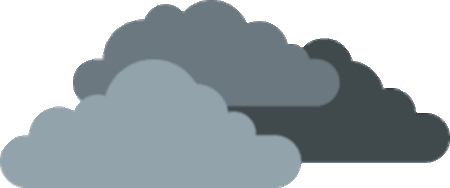
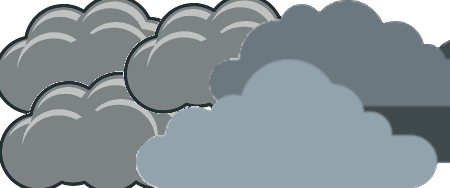
added animation to every phase,completed all the phases

diff --git a/src/App.js b/src/App.js
@@ -13,6 +13,8 @@ import Mountain from './components/Mountain';
 import Sun from './components/Sun';
 import Bird from './components/images/Bird.gif';
 import A1up from './components/A1up';
+import A2Down from './components/A2Down';
+import A2Left from './components/A2Left';
 import ReactRain from 'react-rain-animation';
 import "react-rain-animation/lib/style.css";
 import Flippy, { FrontSide, BackSide } from 'react-flippy';
@@ -28,36 +30,45 @@ class App extends Component {
     this.state = {
       sun : false ,
       cloud : false ,
+      cloud3 : false,
       rain : false,
       arrow : false,
+      arrow2 : false,
    }
 }
 Phase1() {
    this.setState({sun: true});
    this.setState({cloud : false});
+   this.setState({cloud3 : false});
    this.setState({rain: false});
    this.setState({arrow: true});
+   this.setState({arrow2 : false});
  
  }
 Phase2() {
    this.setState({sun: true});
    this.setState({cloud : true});
+   this.setState({cloud3 : false});
    this.setState({rain: false});
    this.setState({arrow: false});
-
+   this.setState({arroe22: false})
 }
 Phase3() {
    this.setState({sun: false});
    this.setState({cloud : true});
+   this.setState({cloud3 : true});
    this.setState({rain: true});
    this.setState({arrow: false});
+   this.setState({arrow2: false});
 
 }
 Phase4() {
    this.setState({sun: false});
    this.setState({cloud : false});
+   this.setState({cloud3 : false});
    this.setState({rain: false});
    this.setState({arrow: false });
+   this.setState({arrow2: true});
 
 }
   render() {
@@ -69,52 +80,96 @@ Phase4() {
     <Col sm={10}>
     <Container className='Container'>
      
-      <Row justify='start'>
-      {
+     <Row justify='start'>
+       {
           this.state.rain ?  <ReactRain numDrops="1000"></ReactRain> : null
         }
-               
-      </Row>
+     </Row>
+         
+        <Row>
+           
+            <Col xs={0} sm={0} > { this.state.sun ? <Sun> <Cloud /> </Sun> : null } </Col>
+            <Col xs={10}>{this.state.cloud ? <Cloud /> : null}
+                
+              <Row>
+         
+                
+                <Col xs={2.2}> {this.state.arrow ? null : null} </Col >
+                <Col xs={2.4}> {this.state.arrow ? <A1up /> : null} </Col >
+                <Col xs={2.4}> {this.state.arrow ? <A1up /> : null} </Col >
+                <Col xs={2.4}> {this.state.arrow ? <A1up />: null} </Col >
+                <Col xs={2.4}> {this.state.arrow ? <A1up />: null} </Col >
+
+            </Row>
+
+            <Row>
+              
+              <Col xs={1}>
+                { this.state.cloud3 ? <Cloud5 /> : null}
+              </Col>
+
+              <Col xs={3}>
+                { this.state.cloud3 ? <Cloud /> : null}              </Col>
+
+            </Row>
+          </Col>
+        
+
+        </Row>
 
       
-      <Row>
       
-         <Col xs={0.4} sm={0.4}>
-         
-        {
-          this.state.sun ? <Sun /> : null
-        }
-         </Col>
-         
-         <Col xs={2} sm={2}>
-         {
-          this.state.cloud ? <Cloud5 /> : null
-        }
-         {
-          this.state.cloud ? <Cloud2 /> : null
-        }
-          </Col>
-
-          <Col xs={1} sm={1}>
-          {
-          this.state.cloud ? <Cloud2 /> : null
-        }
-         {
-          this.state.cloud ? <Cloud /> : null
-        }
-          </Col>
-
-           <Col  xs={4} sm={4}>
-           {
-          this.state.cloud ? <Cloud /> : null
-        }            
-             
-           </Col>
-       </Row>
-
             
       <Row>
            <Col xs={2}> 
+             
+             {this.state.arrow ? <A1up /> : null}
+             
+           </Col >
+
+           <Col xs={2}>
+           {this.state.arrow ? <A1up /> : null}
+           </Col>
+
+           <Col xs={2}>
+            {this.state.arrow ? <A1up /> : null}
+           </Col>
+
+           <Col xs={2}>
+            {this.state.arrow ? <A1up /> : null}
+           </Col>
+
+           <Col xs={2}>
+            {this.state.arrow ? <A1up /> : null}
+           </Col>
+      </Row>
+
+
+      <Row>
+           <Col xs={2}> 
+             {this.state.arrow ? <A1up /> : null}
+           </Col >
+
+           <Col xs={2}>
+           {this.state.arrow ? <A1up /> : null}
+           </Col>
+
+           <Col xs={2}>
+            {this.state.arrow ? <A1up /> : null}
+           </Col>
+
+           <Col xs={2}>
+            {this.state.arrow ? <A1up /> : null}
+           </Col>
+
+           <Col xs={2}>
+            {this.state.arrow ? <A1up /> : null}
+           </Col>
+      </Row>
+
+
+      <Row>
+           <Col xs={2}> 
              {this.state.arrow ? <A1up /> : null}
            </Col >
 
@@ -180,6 +235,25 @@ Phase4() {
             {this.state.arrow ? <A1up /> : null}
            </Col>
       </Row>
+
+
+      <Row>
+          <Col xs={7}>
+              
+          </Col>
+           
+           <Col xs={3}>
+              {this.state.arrow2 ? <A2Down /> : null }
+          </Col>
+
+       </Row> 
+    
+       <Row>
+          <Col xs={10}>
+              {this.state.arrow2 ? <A2Left /> : null }      
+          </Col>
+        
+       </Row> 
     
 
     </Container>

diff --git a/src/components/A2Left.js b/src/components/A2Left.js
@@ -1,0 +1,40 @@
+
+import React, { Component } from 'react';
+import 'react-marquee';
+import a3 from './images/a1left.png';
+import './App.css';
+
+class A2Left extends Component {
+  render() {
+    return (
+           <div> 
+            <marquee direction={"left"} scrollamount={"120"}>
+                <img src={a3} /> 
+                <img src={a3} /> 
+                <img src={a3} />
+            </marquee>
+            
+            <marquee direction={"left"} scrollamount={"60"}>
+                <img src={a3} /> 
+                <img src={a3} /> 
+                <img src={a3} /><br /> 
+            </marquee>
+
+            <marquee direction={"left"} scrollamount={"30"}>
+                <img src={a3} /> 
+                <img src={a3} /> 
+                <img src={a3} /> <br />
+            </marquee>
+
+            <marquee direction={"left"} scrollamount={"15"}>
+                <img src={a3} /> 
+                <img src={a3} /> 
+                <img src={a3} />
+            </marquee> 
+            </div>
+                     
+             );
+  }
+}
+
+export default A2Left;

diff --git a/src/components/A2Down.js b/src/components/A2Down.js
@@ -1,0 +1,31 @@
+import React, { Component } from 'react';
+import 'react-marquee';
+import a3 from './images/a1down.png';
+import './App.css';
+
+
+class A2Down extends Component {
+  render() {
+    return (
+           <div> <marquee direction={"down"} scrollamount={"15"}>
+                <img src={a3} /> 
+                <img src={a3} /> 
+                <img src={a3} /><br /> 
+            </marquee>
+
+            <marquee direction={"down"} scrollamount={"30"}>
+                <img src={a3} /> 
+                <img src={a3} /> 
+                <img src={a3} /> <br />
+            </marquee>
+
+            <marquee direction={"down"} scrollamount={"60"}>
+                <img src={a3} /> 
+                <img src={a3} /> 
+                <img src={a3} />
+            </marquee> 
+            </div>);
+  }
+}
+
+export default A2Down;

diff --git a/src/components/Cloud.js b/src/components/Cloud.js
@@ -1,13 +1,20 @@
 import React, { Component } from 'react';
 import cloud from './images/c1.png';
+import cloud5 from './images/c6.png';
+
 import './App.css';
+import 'react-marquee';
 
 
 class Cloud extends Component {
     render() {
         return (
           <div>
-                <img className="Cloud" src={cloud}/>
+               <marquee behavior={"slide"} direction={"right"} scrollamount={"5"}> 
+                   <img className="Cloud" src={cloud}/>
+                   <img className="Cloud" src={cloud}/>
+
+                </marquee>
 
           </div> 
         );

diff --git a/src/components/Cloud5.js b/src/components/Cloud5.js
@@ -1,16 +1,22 @@
 import React, { Component } from 'react';
+import cloud from './images/c1.png';
 import cloud5 from './images/c6.png';
+
 import './App.css';
+import 'react-marquee';
 
 
-class Cloud5 extends Component {
+class Cloud extends Component {
     render() {
         return (
           <div>
-                <img className="Cloud" src={cloud5}/>
+                   <img className="Cloud" src={cloud}/>
+                   <img className="Cloud" src={cloud}/>
+
+               
 
           </div> 
         );
     }
 }
-export default Cloud5;
+export default Cloud;

diff --git a/src/components/A1up.js b/src/components/A1up.js
@@ -1,14 +1,14 @@
 import React, { Component } from 'react';
 import SmoothImage from 'react-smooth-image';
-//import logo from './logo.svg';
-import a1up from './images/a1up.png';
+import 'react-marquee';
+import a1up from './images/a2.png';
 
 class A1up extends Component {
   render() {
     return (
       <div >
         <header >
-          <img src={a1up}  className="A1up"  />
+          <marquee direction={"up"} scrollamount={"80"} scrolldelay={"200"}><img src={a1up}  className="A1up"  /></marquee>
         </header>
       </div>
     );

diff --git a/src/components/App.css b/src/components/App.css
@@ -1,3 +1,8 @@
+.arrow{
+  padding:0px;
+  font-size:20px;
+}
+
 .Analog{
   background-color:grey;
   text-align:left;
